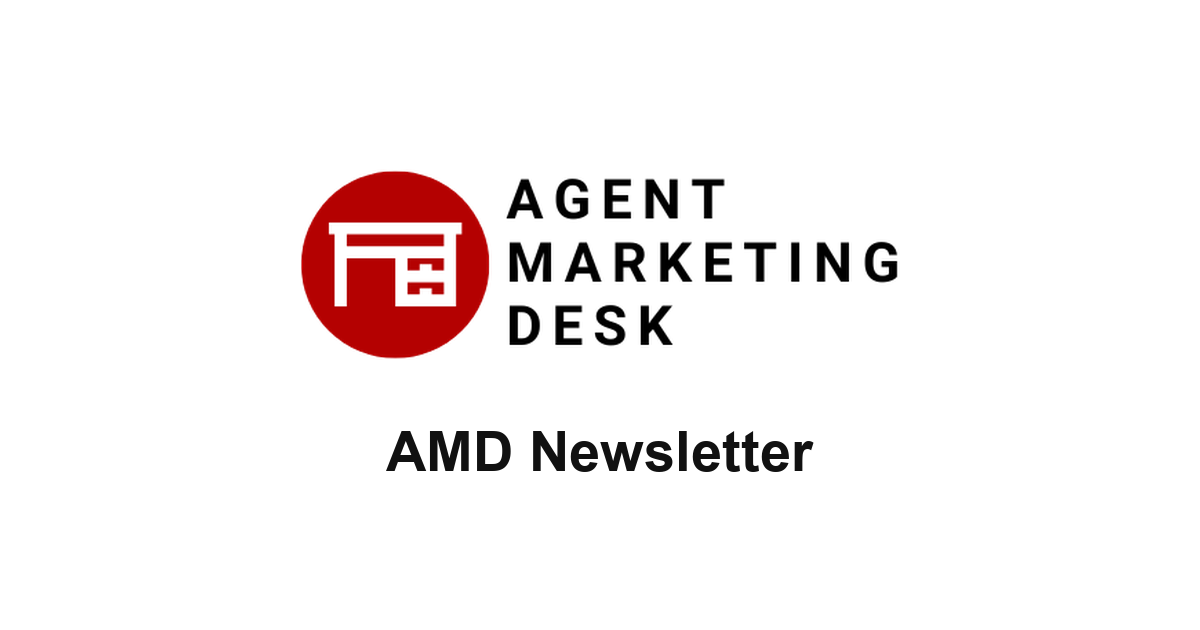
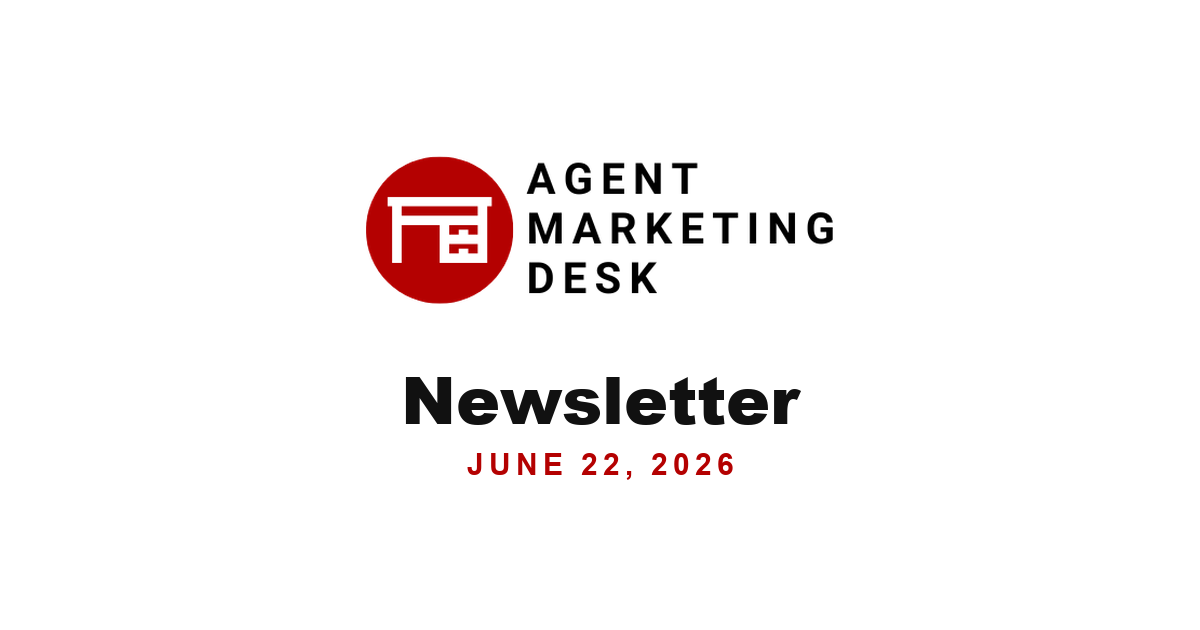
Update 2026-06-22 issue
- Reorder: Forero Realty Group now above the Roberta website feature
- Fix Forero title wrapping (keep "Realty Group" together)
- Mobile: Lily + Raquel photo grids stack to 1 column (larger, more visible)
- Dedicated OG share card (logo + "Newsletter" + date on white)

Changed region(s): [[0.2467, 0.2413, 0.7708, 0.573], [0.3083, 0.6032, 0.6783, 0.754]]

diff --git a/issues/2026-06-22.html b/issues/2026-06-22.html
@@ -272,12 +272,13 @@
 
     /* ─── Responsive ──────────────────────────────────── */
     @media (max-width: 600px) {
-      .hdr, .lead-body, .sec, .workshop, .product, .pricing, .team-section, .resources, .social, .ftr { padding-left: 22px !important; padding-right: 22px !important; }
+      .hdr, .lead-body, .sec, .workshop, .featured-work, .product, .pricing, .team-section, .resources, .social, .ftr { padding-left: 22px !important; padding-right: 22px !important; }
       .lead-body h1 { font-size: 24px !important; }
       .sec h2, .workshop h2, .team-section h2, .resources-head h2 { font-size: 22px !important; }
       .product-grid { grid-template-columns: 1fr !important; }
       .product-img { width: 100% !important; aspect-ratio: 16/9 !important; }
       .team-grid { grid-template-columns: repeat(2, 1fr) !important; }
+      .featured-work-grid { grid-template-columns: 1fr !important; max-width: 420px !important; }
       .workshop-meta-row strong { display: block !important; }
       .testimonial-content { flex-direction: column !important; align-items: center !important; text-align: center !important; }
       .testimonial-body { text-align: center !important; }
@@ -398,6 +399,20 @@
     </div>
   </div>
 
+  <!-- ═══ FEATURED WORK 4 ═════════════════════════════ -->
+  <div class="featured-work" style="display: block;">
+    <div class="featured-work-head">
+      <span class="eyebrow">AMD × Raquel Forero</span>
+      <h2>Behind the Scenes with the Forero Realty&nbsp;Group</h2>
+      <p>Behind the scenes from our photo shoot with Raquel Forero and the Forero Realty Group at KW Houston Central.</p>
+    </div>
+    <div class="featured-work-grid">
+      <img src="https://raw.githubusercontent.com/Agent-Marketing-Desk/newsletter-assets/main/2026/06-june/2026-06-22/assets/images/raquel-bts-1.jpg" alt="Behind the scenes: Raquel Forero reviewing shots on the camera"><img src="https://raw.githubusercontent.com/Agent-Marketing-Desk/newsletter-assets/main/2026/06-june/2026-06-22/assets/images/raquel-portrait.jpg" alt="Raquel Forero, finished portrait from the shoot">
+    </div>
+    <div class="featured-work-credit"></div>
+    <div class="featured-work-cta"><a href="https://www.instagram.com/realtor_raquel/" class="btn btn-red" target="_blank" rel="noopener">Follow Raquel</a><a href="https://www.instagram.com/forerorealtygroup/" class="btn btn-black" target="_blank" rel="noopener">Follow Forero Realty Group</a></div>
+  </div>
+
   <!-- ═══ WEBSITE FEATURE (website + logo) ═══ -->
   <div class="website-feature" style="display: block;">
     <div class="website-feature-head">
@@ -442,20 +457,6 @@
       <p>We design and print custom marketing materials for agents and teams: bifolds, brochures, flyers, signs, and more.</p>
     </div>
     <div class="featured-work-cta"><a href="https://agentmarketingdesk.com/products/listing-bifold-17w-x-11h-22w-x-8-5h?_pos=1&_sid=2aa34eb05&_ss=r" class="btn btn-red" target="_blank" rel="noopener">Order Your Bifolds</a></div>
-  </div>
-
-  <!-- ═══ FEATURED WORK 4 ═════════════════════════════ -->
-  <div class="featured-work" style="display: block;">
-    <div class="featured-work-head">
-      <span class="eyebrow">AMD × Raquel Forero</span>
-      <h2>Behind the Scenes with the Forero Realty Group</h2>
-      <p>Behind the scenes from our photo shoot with Raquel Forero and the Forero Realty Group at KW Houston Central.</p>
-    </div>
-    <div class="featured-work-grid">
-      <img src="https://raw.githubusercontent.com/Agent-Marketing-Desk/newsletter-assets/main/2026/06-june/2026-06-22/assets/images/raquel-bts-1.jpg" alt="Behind the scenes: Raquel Forero reviewing shots on the camera"><img src="https://raw.githubusercontent.com/Agent-Marketing-Desk/newsletter-assets/main/2026/06-june/2026-06-22/assets/images/raquel-portrait.jpg" alt="Raquel Forero, finished portrait from the shoot">
-    </div>
-    <div class="featured-work-credit"></div>
-    <div class="featured-work-cta"><a href="https://www.instagram.com/realtor_raquel/" class="btn btn-red" target="_blank" rel="noopener">Follow Raquel</a><a href="https://www.instagram.com/forerorealtygroup/" class="btn btn-black" target="_blank" rel="noopener">Follow Forero Realty Group</a></div>
   </div>
 
   <!-- ═══ FEATURED WORK ═══════════════════════════════ -->
